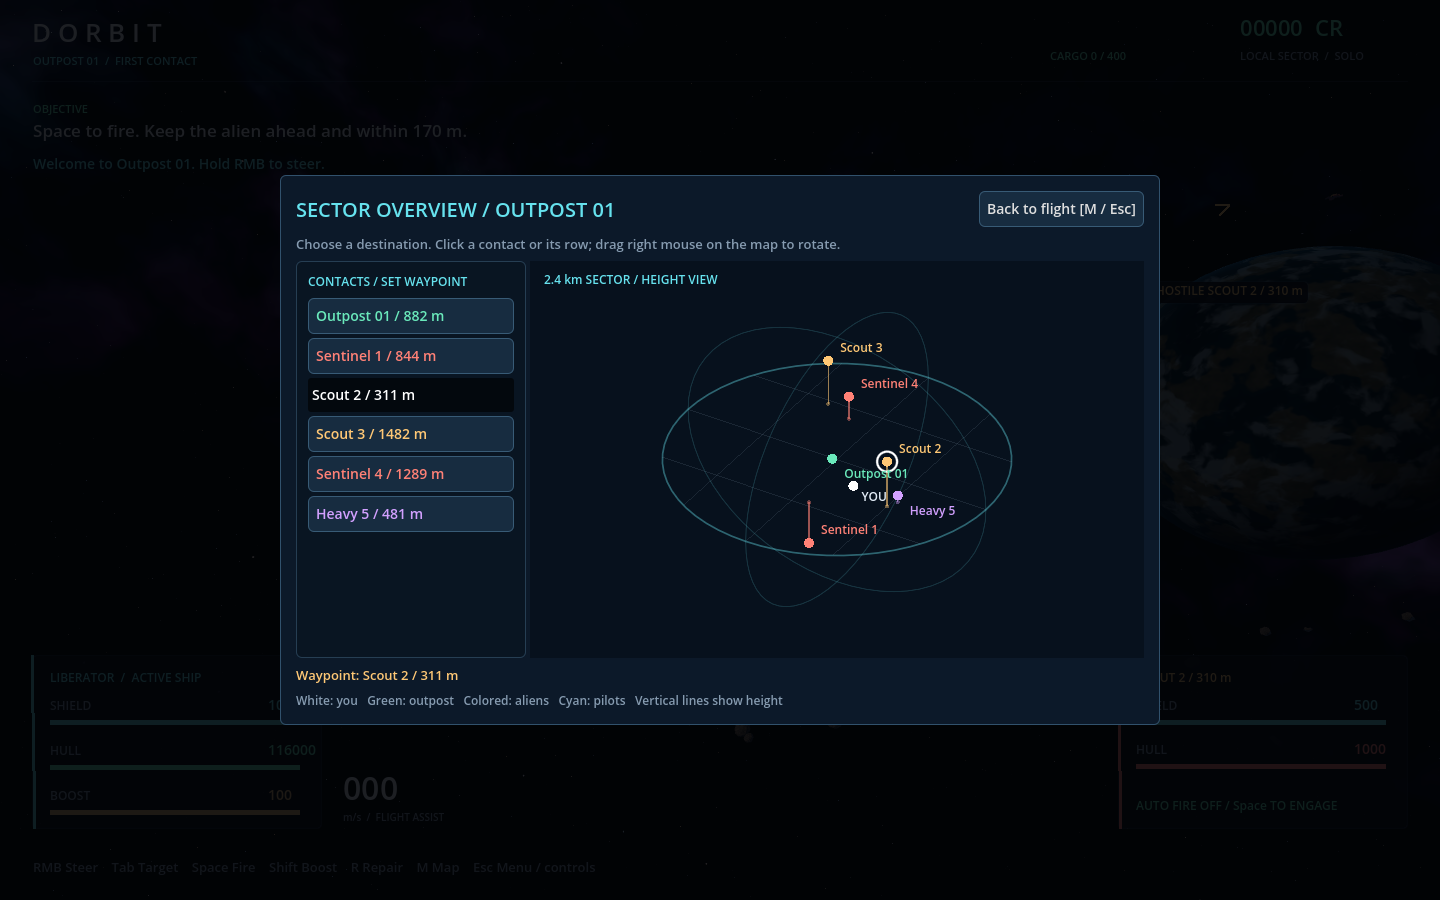
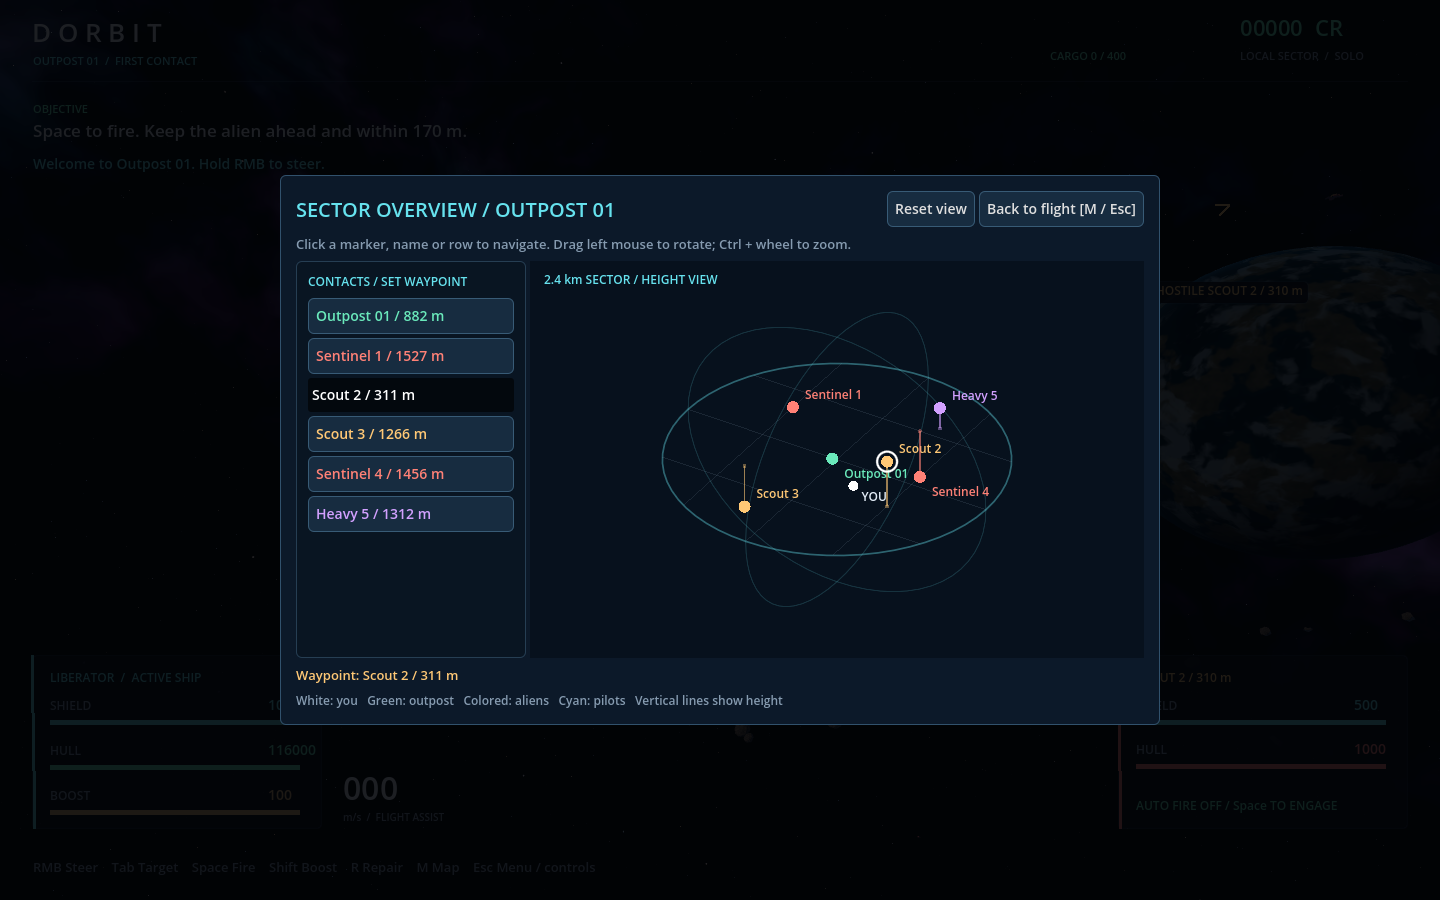
feat: add direct sector map selection and view controls

diff --git a/README.md b/README.md
@@ -31,7 +31,11 @@ steering, and small arrows show contacts above or below. Green marks Outpost 01,
 cyan marks other pilots, and aliens use their type colors. A white ring identifies
 your destination. Use **− / +** to change range from 250 m to 2.4 km.
 Press **M** or click Map for a larger sector overview. Click a contact or its row
-to select a destination; drag right mouse on the plot to rotate the height view.
+to select a destination. Markers, names and height lines are clickable directly
+on the map and highlight under the pointer. Hold left mouse and drag to rotate
+horizontally or vertically; a short click selects instead of rotating. Right-mouse
+drag also rotates. **Ctrl + mouse wheel** zooms around the cursor, from 0.6× to
+3×. **Reset view** restores rotation and zoom.
 Choosing an alien also selects it for combat. Choosing the outpost or another
 pilot clears the combat target. M or Esc returns to flight. Multiplayer keeps
 running while the overview is open.
@@ -60,7 +64,9 @@ server/client builds; clients from before the map update cannot connect.
 
 Review the [960×600 radar and guidance](docs/feedback/map-navigation-960.png),
 [1440×900 layout](docs/feedback/map-navigation-1440.png) and
-[sector overview](docs/feedback/map-overview-960.png), plus the
+[sector overview](docs/feedback/map-overview-960.png),
+[rotated view](docs/feedback/map-overview-rotated-960.png) and
+[zoomed view](docs/feedback/map-overview-zoom-960.png), plus the
 [radiation alert](docs/feedback/map-radiation.png).
 The map integration fixture (`tests/map_layout_test.gd`) checks 100 random homes,
 respawn and late-join replication, every boundary axis, increasing authoritative

diff --git a/GAME_PLAN.md b/GAME_PLAN.md
@@ -121,6 +121,8 @@ Following playtesting, the user approved replacing the paired world-axis maps wi
 
 The user accepted the current map and navigation after playtesting. The center destination panel aligns its bottom with the ship-health and selected-enemy panels at every supported window size.
 
+The sector overview supports direct clicks on contact markers, names and height lines, with hover feedback. A left click selects on release; holding left mouse and dragging at least six pixels rotates the view horizontally and vertically without selecting. Right-mouse drag also rotates. Ctrl + wheel zooms around the pointer from 0.6× to 3×, with clipping inside the map panel. Reset view restores the original angle, zoom and center. These controls affect presentation only.
+
 M opens a larger sector overview with a rotatable height projection and contact list. Clicking a contact or its row sets the destination and returns to flight; alien destinations also use normal combat selection, while outpost/friendly destinations clear the combat target. M or Esc closes it. Opening releases steering and disables automatic fire. Solo simulation pauses; multiplayer and radiation continue on the server. Rescue and disconnect close the overview, and missing contacts fall back to the outpost. This adds navigation controls within the current sector, with no fog of war or arbitrary-coordinate waypoints. Network schema 6 adds exposure and random home state and deliberately rejects older builds, including PR 34's schema 4.
 
 ### Death and recovery
